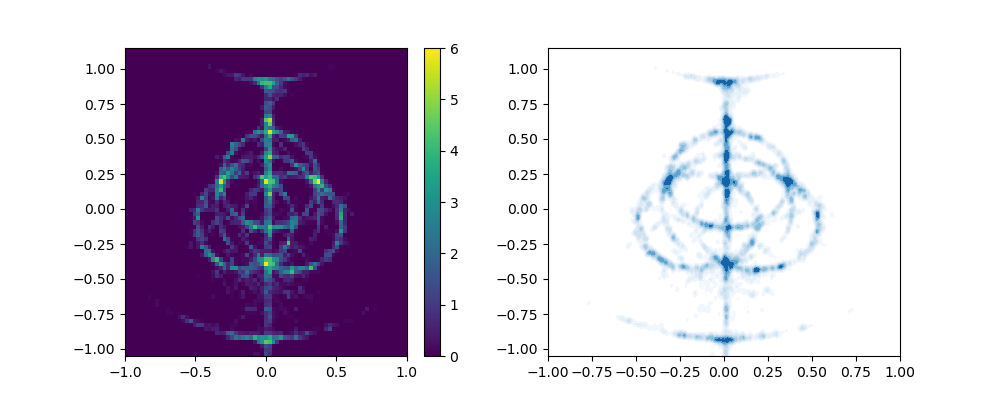
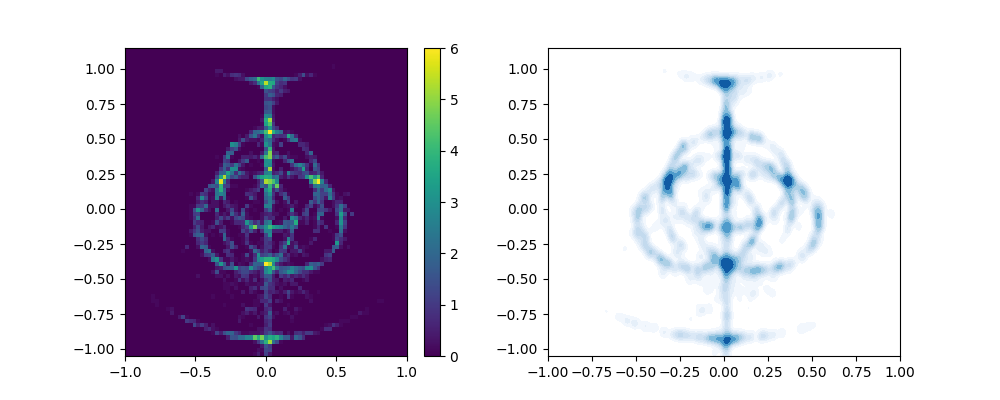
generic commit

diff --git a/scripts/transport/kvae_flow.py b/scripts/transport/kvae_flow.py
@@ -95,7 +95,8 @@ class Comp_transport_model:
     def map_var(self, x_mu, y_eta, y_mean, Lambda_var, X_var, y_var, fit_kernel):
         if not self.approx:
             y_eta = shuffle(y_eta)
-        x_var = torch.concat([x_mu, y_eta, y_mean + y_var], dim=1)
+        #x_var = torch.concat([x_mu, y_eta, y_mean + y_var], dim=1)
+        x_var = torch.concat([x_mu, y_eta, y_mean], dim=1)
         Lambda_var = Lambda_var
 
         z_var = fit_kernel(X_var, x_var).T @ Lambda_var
@@ -177,11 +178,13 @@ class CondTransportKernel(nn.Module):
         self.Y_mean = deepcopy(self.Y_eta)
         self.Y_var =  0 * self.Y_mean
         self.X_var = torch.concat([self.X_mu, shuffle(self.Y_eta), self.Y_mean + self.Y_var], dim=1)
+        self.X_var = torch.concat([self.X_mu, shuffle(self.Y_eta), self.Y_mean], dim=1)
         self.approx = self.params['approx']
         if self.approx:
             self.Y_mean = geq_1d(torch.tensor(base_params['Y_mean'], device=self.device, dtype=self.dtype))
             self.Y_var = geq_1d(torch.tensor(base_params['Y_var'], device=self.device, dtype=self.dtype))
-            self.X_var = torch.concat([self.X_mu, self.Y_eta, self.Y_mean + self.Y_var], dim=1)
+            #self.X_var = torch.concat([self.X_mu, self.Y_eta, self.Y_mean + self.Y_var], dim=1)
+            self.X_var = torch.concat([self.X_mu, self.Y_eta, self.Y_mean], dim=1)
 
         self.X_mean = torch.concat([self.X_mu, self.Y_mean], dim=1)
         self.Y_approx = self.Y_mean + self.Y_var
@@ -269,7 +272,8 @@ class CondTransportKernel(nn.Module):
 
         y_mean = geq_1d(torch.tensor(y_mean, device=self.device, dtype=self.dtype))
 
-        x_var = torch.concat([x_mu, y_eta, y_mean + y_var], dim=1)
+        #x_var = torch.concat([x_mu, y_eta, y_mean + y_var], dim=1)
+        x_var = torch.concat([x_mu, y_eta, y_mean], dim=1)
         Lambda_var = self.get_Lambda_var()
 
         z_var = self.fit_kernel(self.X_var, x_var).T @ Lambda_var
@@ -700,6 +704,7 @@ def vl_exp(N=10000, n_iter=101, Yd=18, normal=True, exp_name='vl_exp', n_transpo
 
 def run():
     elden_exp(N=5000, n_transports=200)
+
     '''
     spheres_exp(N = 8000, n_transports=200)
     vl_exp(N = 8000)

diff --git a/scripts/transport/kvae_flow2.py b/scripts/transport/kvae_flow2.py
@@ -397,8 +397,6 @@ def comp_cond_kernel_transport(X_mu, Y_mu, Y_eta, params, n_iter = 101, n = 50,
         if i==0:
             model_params['mmd_func'] = model.mmd
 
-        n_iter = max(int(n_iter * f), 50)
-
         map_dict = model.map(model.X_mu, model.Y_eta, model.Y_mean, model.Y_var)
         Y_eta, Y_mean, Y_var = map_dict['y_eta'], map_dict['y_mean'], map_dict['y_var']
 
@@ -605,7 +603,7 @@ def spheres_exp(N = 5000, n_iter = 101, exp_name = 'spheres_exp', n_transports =
     return True
 
 
-def elden_exp(N=10000, n_iter=101, exp_name='elden_exp', n_transports=55):
+def elden_exp(N=10000, n_iter=51, exp_name='elden_exp', n_transports=55):
     ref_gen = sample_normal
     target_gen = sample_elden_ring
     idx_dict = {'ref': [[0, 1]], 'cond': [[]],'target': [[0,1]]}
@@ -699,7 +697,7 @@ def vl_exp(N=10000, n_iter=101, Yd=18, normal=True, exp_name='vl_exp', n_transpo
 
 
 def run():
-    elden_exp(7000, n_transports=300, n_iter=50)
+    elden_exp(5000, n_transports=300, n_iter=150)
 
 
 
